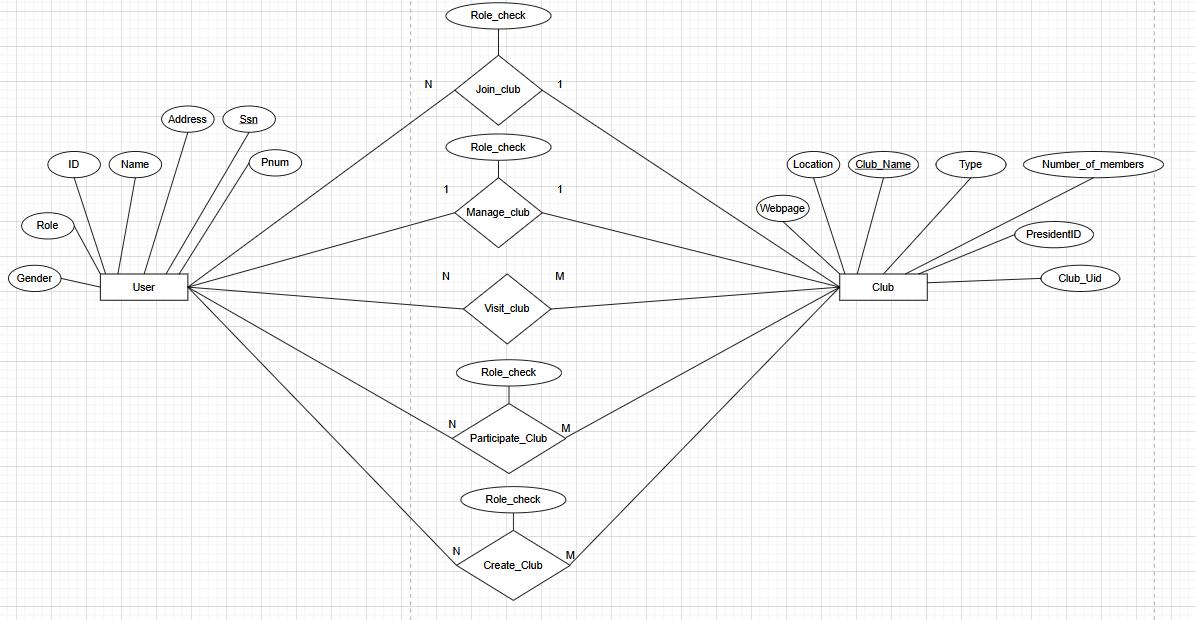
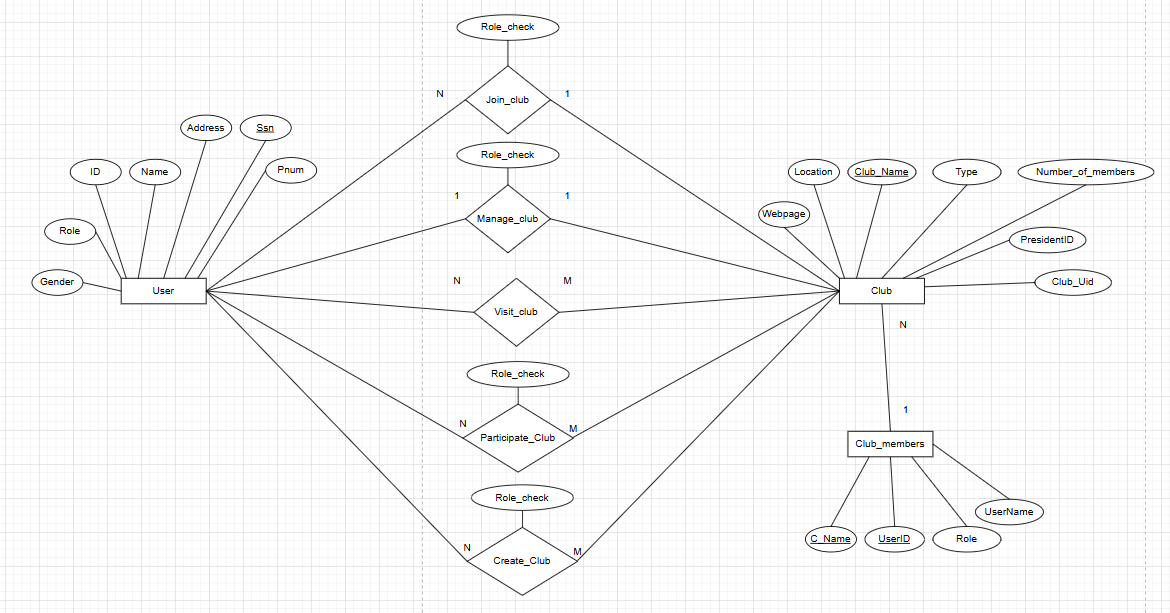
수정

diff --git a/README.md b/README.md
@@ -23,7 +23,7 @@
 
 ## 요구사항
 
-1. 프로젝트의 엔티티로 'User', 'Club'가 있다.
+1. 프로젝트의 엔티티로 'User', 'Club', ‘Club_members’가 있다.
 2. 'User'은 Primary key인 Ssn을 가지고 Name, Address, ID, Role, Pnum, Gender이라는 속성을 가진다.
 
 - 사용자는 Name, Address, ID, Pnum, Gender를 통해 회원가입 할 수 있다.
@@ -44,6 +44,10 @@
 - Role이 해당 ‘Club’의 President인 ‘User’인 경우에만 ‘Manage_club’에 진입하여 ‘Club’의 attribute를 수정, 삭제할 수 있다.
   - ‘Club’이 삭제된 경우 해당 ‘Club’의 President와 모든 Member인 ‘User’의 Role은 General로 변경된다.
 - 진입이 불가하다면 이전 페이지로 돌아가고 그러한 이유를 터미널을 통해 출력한다.
+
+5. 'Club_members'은 Primary key인 C_Name, UserID를 가지고 UserName, Role 라는 속성을 가진다.
+
+- ‘Club_members’를 통해 Role이 President이거나 Member인 ‘User’를 저장한다.
 
 ## E-R Diagram
 
